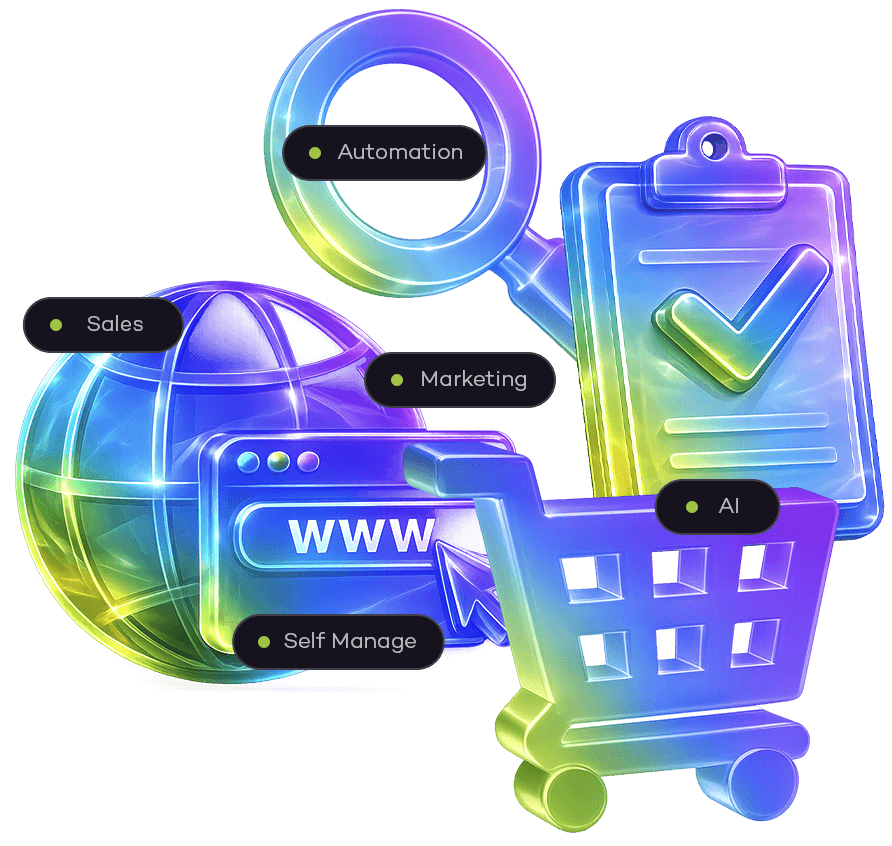
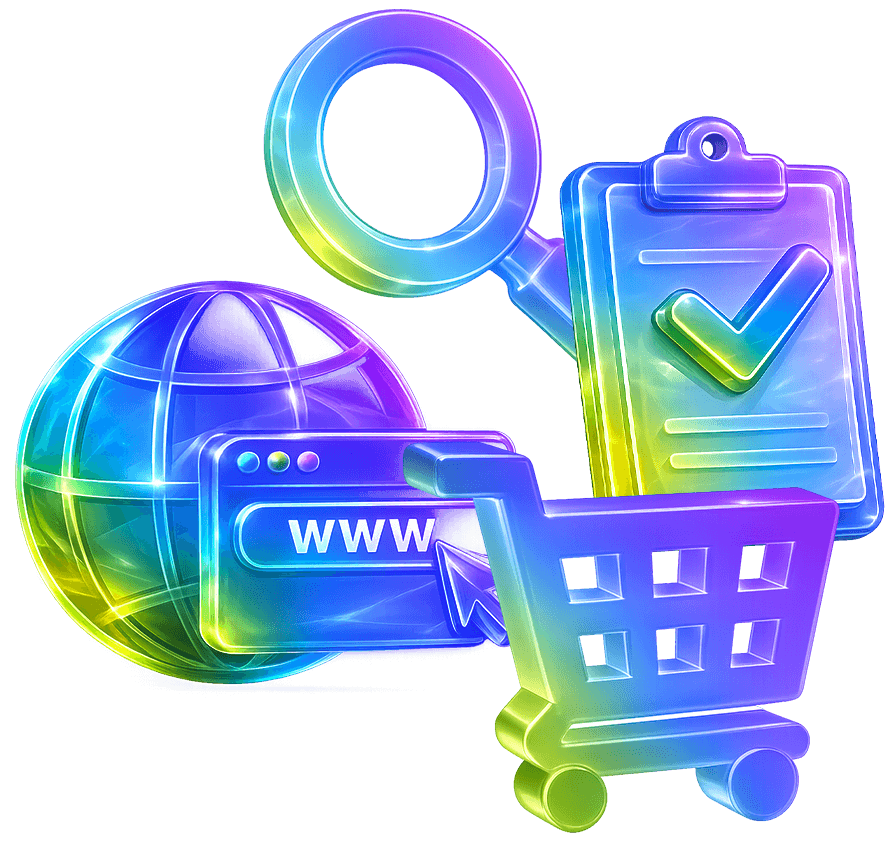
feat: update hero image, remove badge and microcopy, add pulse effect to floating tags

diff --git a/src/app/[locale]/page.tsx b/src/app/[locale]/page.tsx
@@ -1,6 +1,6 @@
 import { notFound } from "next/navigation";
 import Link from "next/link";
-import { CheckCircle, TrendingUp, Search, ArrowRight, Star, Zap } from "lucide-react";
+import { TrendingUp, Search, ArrowRight, Star, Zap } from "lucide-react";
 import Image from "next/image";
 import AnimateIn from "@/components/AnimateIn";
 import { getDictionary, isValidLocale } from "@/lib/i18n";
@@ -33,10 +33,7 @@ export default async function HomePage({
           {/* LEFT — text */}
           <div className="flex-1 text-center lg:text-left">
             <AnimateIn>
-              <div className="badge mb-6 lg:mx-0 mx-auto w-fit">
-                <span className="glow-dot" />
-                {t.badge}
-              </div>
+              <div className="h-6" />
             </AnimateIn>
             <AnimateIn delay={80}>
               <h1 className="text-5xl md:text-6xl lg:text-7xl font-bold tracking-tight leading-[1.05] mb-6">
@@ -65,15 +62,6 @@ export default async function HomePage({
                 </Link>
               </div>
             </AnimateIn>
-            <AnimateIn delay={320}>
-              <div className="flex flex-wrap justify-center lg:justify-start gap-x-6 gap-y-2 text-white/35 text-sm">
-                {t.microcopy.map((item) => (
-                  <span key={item} className="flex items-center gap-1.5">
-                    <CheckCircle size={13} className="text-[#97c121]" /> {item}
-                  </span>
-                ))}
-              </div>
-            </AnimateIn>
           </div>
 
           {/* RIGHT — hero image with floating tags */}
@@ -89,19 +77,19 @@ export default async function HomePage({
               />
               {/* Floating tags */}
               <span className="absolute top-[8%] left-[10%] flex items-center gap-2 bg-black/80 border border-white/10 backdrop-blur-md rounded-full px-3 py-1.5 text-xs font-medium text-white shadow-lg">
-                <span className="w-1.5 h-1.5 rounded-full bg-[#97c121]" /> Sales
+                <span className="relative flex h-2 w-2"><span className="animate-ping absolute inline-flex h-full w-full rounded-full bg-[#97c121] opacity-75" /><span className="relative inline-flex rounded-full h-2 w-2 bg-[#97c121]" /></span> Sales
               </span>
               <span className="absolute top-[4%] right-[12%] flex items-center gap-2 bg-black/80 border border-white/10 backdrop-blur-md rounded-full px-3 py-1.5 text-xs font-medium text-white shadow-lg">
-                <span className="w-1.5 h-1.5 rounded-full bg-[#1b4fd8]" /> Automation
+                <span className="relative flex h-2 w-2"><span className="animate-ping absolute inline-flex h-full w-full rounded-full bg-[#1b4fd8] opacity-75" /><span className="relative inline-flex rounded-full h-2 w-2 bg-[#1b4fd8]" /></span> Automation
               </span>
               <span className="absolute top-[42%] right-[4%] flex items-center gap-2 bg-black/80 border border-white/10 backdrop-blur-md rounded-full px-3 py-1.5 text-xs font-medium text-white shadow-lg">
-                <span className="w-1.5 h-1.5 rounded-full bg-[#9b27f9]" /> AI
+                <span className="relative flex h-2 w-2"><span className="animate-ping absolute inline-flex h-full w-full rounded-full bg-[#9b27f9] opacity-75" /><span className="relative inline-flex rounded-full h-2 w-2 bg-[#9b27f9]" /></span> AI
               </span>
               <span className="absolute bottom-[28%] left-[2%] flex items-center gap-2 bg-black/80 border border-white/10 backdrop-blur-md rounded-full px-3 py-1.5 text-xs font-medium text-white shadow-lg">
-                <span className="w-1.5 h-1.5 rounded-full bg-[#97c121]" /> Marketing
+                <span className="relative flex h-2 w-2"><span className="animate-ping absolute inline-flex h-full w-full rounded-full bg-[#97c121] opacity-75" /><span className="relative inline-flex rounded-full h-2 w-2 bg-[#97c121]" /></span> Marketing
               </span>
               <span className="absolute bottom-[12%] left-[18%] flex items-center gap-2 bg-black/80 border border-white/10 backdrop-blur-md rounded-full px-3 py-1.5 text-xs font-medium text-white shadow-lg">
-                <span className="w-1.5 h-1.5 rounded-full bg-[#1b4fd8]" /> Self Manage
+                <span className="relative flex h-2 w-2"><span className="animate-ping absolute inline-flex h-full w-full rounded-full bg-[#1b4fd8] opacity-75" /><span className="relative inline-flex rounded-full h-2 w-2 bg-[#1b4fd8]" /></span> Self Manage
               </span>
             </div>
           </AnimateIn>